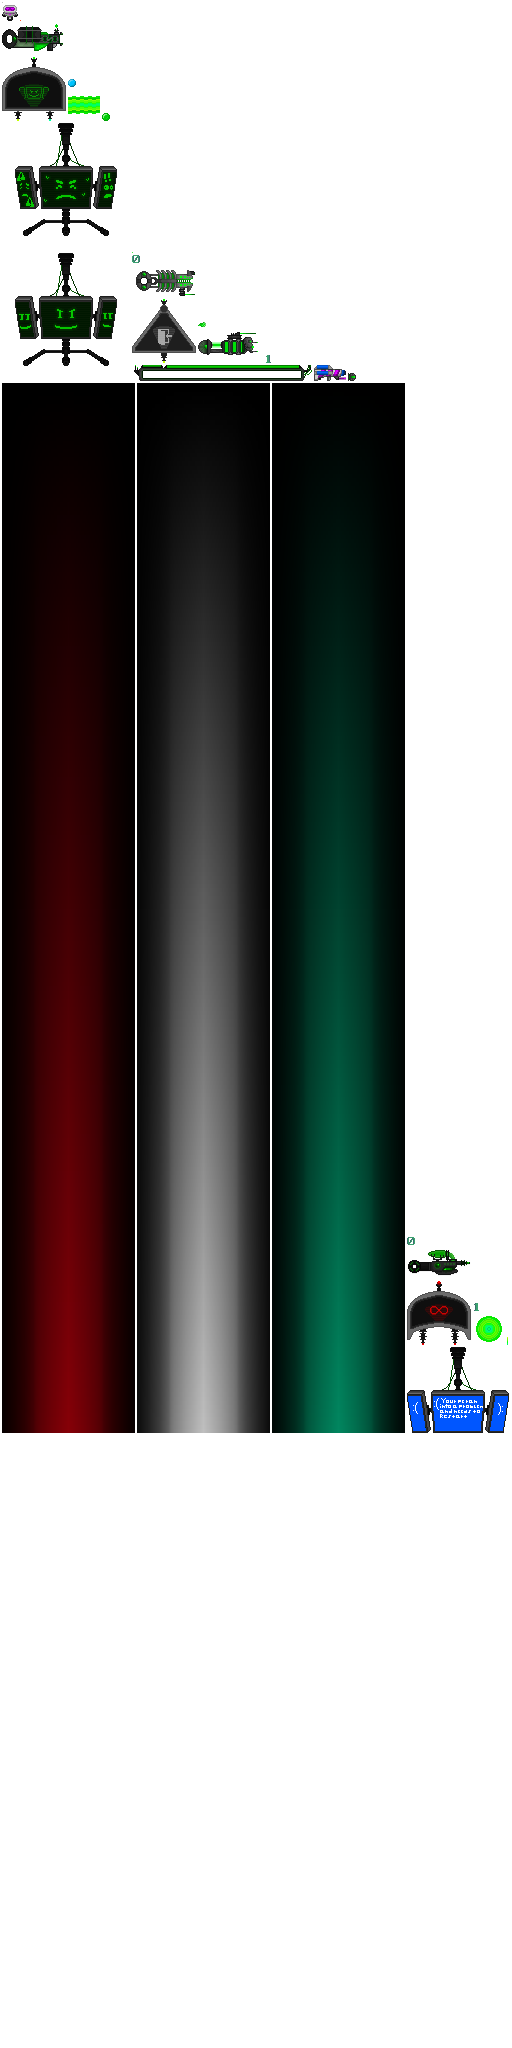
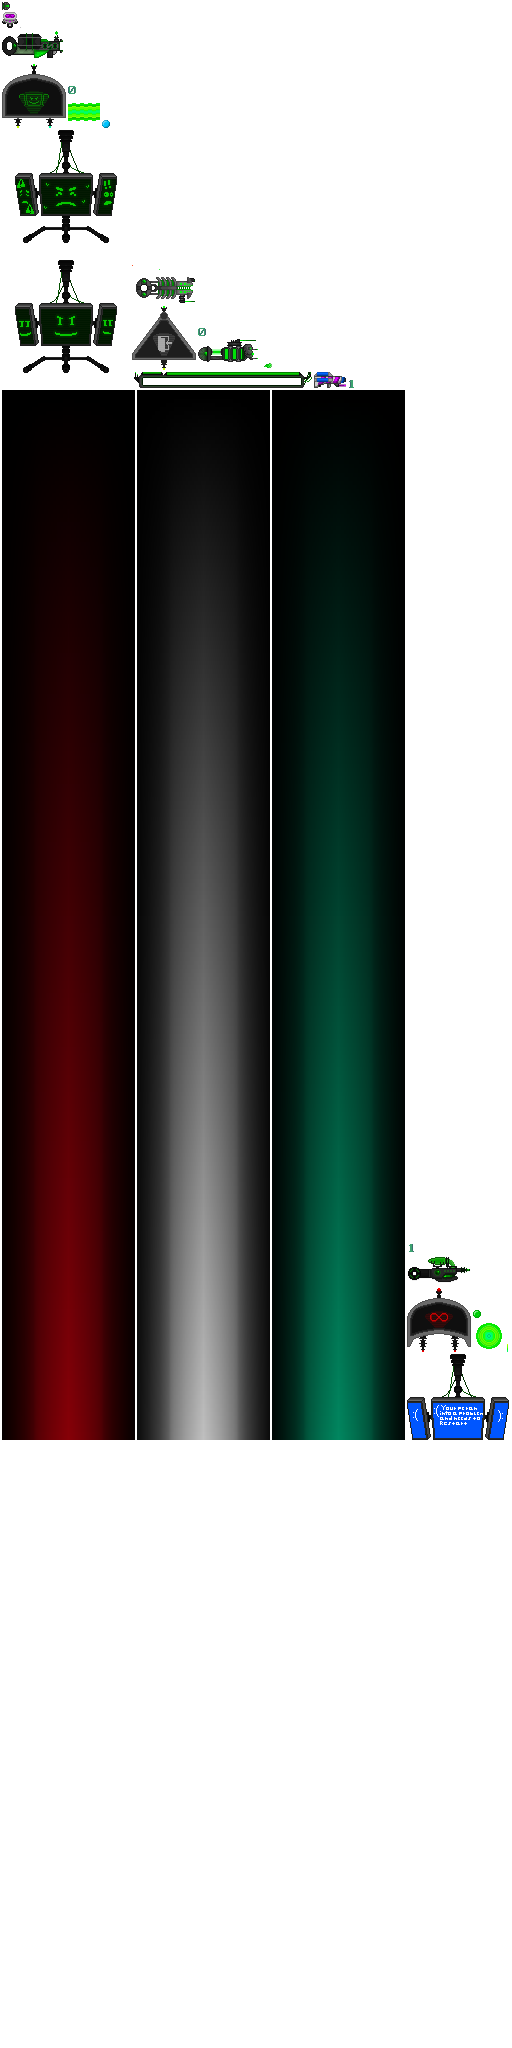
Changed the way we animate the gun, we are now changing sprites' positions properly after the physics step

diff --git a/core/src/com/segfault/games/obj/comp/AngleRecoilComponent.java b/core/src/com/segfault/games/obj/comp/AngleRecoilComponent.java
@@ -12,10 +12,6 @@ import com.segfault.games.JavaKnight;
  */
 public class AngleRecoilComponent extends Component{
     /**
-     * the value the recoil should reach before starting to go back down
-     */
-    public float maxAngle = 0.0f;
-    /**
      * current speed value to increase the angle, note this value is multiplied by deltaTime
      */
     public float angleSpeed = 0.0f;
@@ -27,11 +23,7 @@ public class AngleRecoilComponent extends Component{
     /**
      * the acceleration at which to increase the speed
      */
-    public float angleAcceleration = 0.0f;
-    /**
-     * value to devide the acceleration when going back to its original angle
-     */
-    public float divisor = 0.0f;
+    public float angleDecceleration = 0.0f;
 
     /**
      * the currently added angle
@@ -44,27 +36,19 @@ public class AngleRecoilComponent extends Component{
     public boolean trigger = false;
 
     /**
-     * current time the object stays up before going back down
+     * Max angle the object can reach
      */
-    public float retainTime = 0f;
-
-    /**
-     * initial retain time
-     */
-    public float initialRetainTime = 0f;
+    public float maxAngle = 0f;
 
 
     @Override
     public void reset() {
-        maxAngle = 0.0f;
-        divisor = 0.0f;
         angleSpeed = 0.0f;
         angle = 0.0f;
         trigger = false;
-        retainTime = 0f;
-        initialRetainTime = 0f;
-        angleAcceleration = 0f;
+        angleDecceleration = 0f;
         intialAngleSpeed = 0f;
+        maxAngle = 0f;
     }
 
     @Override
@@ -76,14 +60,11 @@ public class AngleRecoilComponent extends Component{
     public Component clone(JavaKnight instance, Entity ent, Vector4 pol, JsonValue properties) {
         AngleRecoilComponent comp = instance.GetEntityManager().GetEngine().createComponent(this.getClass());
         comp.angle = angle;
-        comp.maxAngle = maxAngle;
         comp.angleSpeed = angleSpeed;
-        comp.divisor = divisor;
         comp.trigger = trigger;
-        comp.retainTime = retainTime;
-        comp.initialRetainTime = initialRetainTime;
-        comp.angleAcceleration = angleAcceleration;
+        comp.angleDecceleration = angleDecceleration;
         comp.intialAngleSpeed = intialAngleSpeed;
+        comp.maxAngle = maxAngle;
         return comp;
     }
 
@@ -94,10 +75,8 @@ public class AngleRecoilComponent extends Component{
 
     @Override
     public void read(JsonValue jsonValue, JavaKnight instance) {
-        maxAngle = jsonValue.getFloat("maxAngle");
         intialAngleSpeed = angleSpeed = jsonValue.getFloat("angleSpeed");
-        divisor = jsonValue.getFloat("divisor");
-        initialRetainTime = jsonValue.getFloat("initialRetainTime");
-        angleAcceleration = jsonValue.getFloat("angleAcceleration");
+        angleDecceleration = jsonValue.getFloat("angleDecceleration");
+        maxAngle = jsonValue.getFloat("maxAngle");
     }
 }

diff --git a/core/src/com/segfault/games/obj/comp/PositionRecoilComponent.java b/core/src/com/segfault/games/obj/comp/PositionRecoilComponent.java
@@ -23,15 +23,6 @@ public class PositionRecoilComponent extends Component{
     public float angle = 0f;
 
     /**
-     * cyrrent seconds to wait before the recoil goes back to its original
-     */
-    public float retainTime = 0f;
-    /**
-     * initial value of retain time
-     */
-    public float initialRetainTime = 0f;
-
-    /**
      * speed at which the distance should move, is multiplied by deltatime
      */
     public float distanceSpeed = 0f;
@@ -39,17 +30,12 @@ public class PositionRecoilComponent extends Component{
     /**
      * acceleration at which to increase the distance speed
      */
-    public float distanceAcceleration = 0f;
+    public float distanceDecceleration = 0f;
 
     /**
      * initial distance speed
      */
     public float initialDistanceSpeed = 0f;
-
-    /**
-     * divisor determining the deceleration
-     */
-    public float divisor = 0f;
 
     /**
      * whether the recoil is currently triggered
@@ -63,24 +49,19 @@ public class PositionRecoilComponent extends Component{
     public Component clone(JavaKnight instance, Entity ent, Vector4 pol, JsonValue properties) {
         PositionRecoilComponent comp = instance.GetEntityManager().GetEngine().createComponent(this.getClass());
         comp.maxDis = maxDis;
-        comp.divisor = divisor;
         comp.angle = angle;
-        comp.retainTime = retainTime;
         comp.distanceSpeed = distanceSpeed;
-        comp.distanceAcceleration = distanceAcceleration;
         comp.initialDistanceSpeed = initialDistanceSpeed;
         comp.trigger = trigger;
-        comp.initialRetainTime = initialRetainTime;
+        comp.distanceDecceleration = distanceDecceleration;
         return comp;
     }
 
     @Override
     public void read(JsonValue jsonValue, JavaKnight instance) {
         maxDis = jsonValue.getFloat("maxDis");
-        divisor = jsonValue.getFloat("divisor");
-        initialRetainTime = jsonValue.getFloat("initialRetainTime");
         initialDistanceSpeed = distanceSpeed = jsonValue.getFloat("initialDistanceSpeed");
-        distanceAcceleration = jsonValue.getFloat("distanceAcceleration");
+        distanceDecceleration = jsonValue.getFloat("distanceDecceleration");
     }
 
     @Override
@@ -93,12 +74,9 @@ public class PositionRecoilComponent extends Component{
         maxDis = 0f;
         dis = 0f;
         angle = 0f;
-        retainTime = 0f;
         distanceSpeed = 0f;
-        distanceAcceleration = 0f;
         initialDistanceSpeed = 0f;
-        divisor = 0f;
-        initialRetainTime = 0f;
+        distanceDecceleration = 0f;
         trigger = false;
     }
 }

diff --git a/core/src/com/segfault/games/obj/ent/EntityManager.java b/core/src/com/segfault/games/obj/ent/EntityManager.java
@@ -80,15 +80,16 @@ public class EntityManager {
 
         systems.put(indexEntitySystems.LIFETIME_SYSTEM, new LifetimeSystem(instance, 10));
         systems.put(indexEntitySystems.PHYSICS_SYSTEM, new PhysicsSystem(instance, 0.01666666666f, 20));
-        systems.put(indexEntitySystems.POINTING_SYSTEM, new PointingSystem(instance, 30));
-        systems.put(indexEntitySystems.ALPHA_DECREASE_SYSTEM, new AlphaDecreaseSystem(instance, 40));
-        systems.put(indexEntitySystems.TRAILING_SYSTEM, new TrailingSystem(instance, 50));
-        systems.put(indexEntitySystems.PLAYER_GUN_SYSTEM, new PlayerGunSystem(instance, 60));
-        systems.put(indexEntitySystems.ANGLE_RECOIL_SYSTEM, new AngleRecoilSystem(instance, 70));
-        systems.put(indexEntitySystems.POSITION_RECOIL_SYSTEM, new PositionRecoilSystem(instance, 80));
-        systems.put(indexEntitySystems.SCREEN_RECOIL_SYSTEM, new ScreenRecoilSystem(instance, 90));
-        systems.put(indexEntitySystems.BULLET_SPAWN_SYSTEM, new BulletSpawnSystem(instance, 100));
-        systems.put(indexEntitySystems.RENDERING_SYSTEM, new RenderingSystem(instance, batch, 110));
+        systems.put(indexEntitySystems.SPRITE_POSITIONING_SYSTEM, new SpritePositioningSystem(instance, 30));
+        systems.put(indexEntitySystems.POINTING_SYSTEM, new PointingSystem(instance, 40));
+        systems.put(indexEntitySystems.ALPHA_DECREASE_SYSTEM, new AlphaDecreaseSystem(instance, 50));
+        systems.put(indexEntitySystems.TRAILING_SYSTEM, new TrailingSystem(instance, 60));
+        systems.put(indexEntitySystems.PLAYER_GUN_SYSTEM, new PlayerGunSystem(instance, 70));
+        systems.put(indexEntitySystems.ANGLE_RECOIL_SYSTEM, new AngleRecoilSystem(instance, 80));
+        systems.put(indexEntitySystems.POSITION_RECOIL_SYSTEM, new PositionRecoilSystem(instance, 90));
+        systems.put(indexEntitySystems.SCREEN_RECOIL_SYSTEM, new ScreenRecoilSystem(instance, 100));
+        systems.put(indexEntitySystems.BULLET_SPAWN_SYSTEM, new BulletSpawnSystem(instance, 110));
+        systems.put(indexEntitySystems.RENDERING_SYSTEM, new RenderingSystem(instance, batch, 120));
 
         for (Object system : systems.values())
             pooledECS.addSystem( (EntitySystem) system);

diff --git a/core/src/com/segfault/games/obj/sys/PositionRecoilSystem.java b/core/src/com/segfault/games/obj/sys/PositionRecoilSystem.java
@@ -23,33 +23,22 @@ public class PositionRecoilSystem extends IteratingSystem {
         DrawableComponent drawable = mappers.Drawable.get(entity);
         PositionRecoilComponent posRecoil = mappers.PositionRecoil.get(entity);
 
-
-        if (posRecoil.retainTime > 0) {
-            posRecoil.retainTime -= deltaTime;
-            posRecoil.dis += posRecoil.distanceAcceleration / posRecoil.divisor * deltaTime;
-            drawable.sprite.translate(posRecoil.dis * MathUtils.cosDeg(posRecoil.angle), posRecoil.dis * MathUtils.sinDeg(posRecoil.angle));
-
-        }
-        else if(posRecoil.trigger) {
-            posRecoil.distanceSpeed += posRecoil.distanceAcceleration;
+        if(posRecoil.trigger) {
             posRecoil.dis += posRecoil.distanceSpeed * deltaTime;
-            drawable.sprite.translate(posRecoil.dis * MathUtils.cosDeg(posRecoil.angle), posRecoil.dis * MathUtils.sinDeg(posRecoil.angle));
+            posRecoil.trigger = false;
 
-            if (posRecoil.dis > posRecoil.maxDis) {
-                posRecoil.trigger = false;
-                posRecoil.retainTime = posRecoil.initialRetainTime;
-                posRecoil.distanceSpeed = posRecoil.initialDistanceSpeed;
-            }
-        }
-          else if (posRecoil.dis > 0) {
-            posRecoil.distanceSpeed += posRecoil.distanceAcceleration;
-            posRecoil.dis -= posRecoil.distanceSpeed / posRecoil.divisor * deltaTime;
+        } else if (posRecoil.dis > 0) {
+            posRecoil.distanceSpeed -= posRecoil.distanceDecceleration;
+            posRecoil.dis += posRecoil.distanceSpeed * deltaTime;
             drawable.sprite.translate(posRecoil.dis * MathUtils.cosDeg(posRecoil.angle), posRecoil.dis * MathUtils.sinDeg(posRecoil.angle));
 
             if (posRecoil.dis <= 0) {
                 posRecoil.distanceSpeed = posRecoil.initialDistanceSpeed;
                 posRecoil.dis = 0;
             }
+            else if (posRecoil.dis > posRecoil.maxDis)
+                posRecoil.dis = posRecoil.maxDis;
+
         }
 
     }

diff --git a/core/src/com/segfault/games/obj/sys/phy/MovementSystem.java b/core/src/com/segfault/games/obj/sys/phy/MovementSystem.java
@@ -27,28 +27,12 @@ public class MovementSystem implements SubSystem {
     public void processEntity(Entity entity, float interval, float accumulator) {
         if (entity.isScheduledForRemoval()) return;
 
-
         MovingComponent movement = manager.GetMappers().Moving.get(entity);
         DrawableComponent drawable = manager.GetMappers().Drawable.get(entity);
 
         CollidesComponent collisionInfo = manager.GetMappers().Collides.get(entity);
         boolean hasBox2DCol = collisionInfo != null;
 
-        Vector2 pos;
-        if (hasBox2DCol) {
-
-            pos = collisionInfo.physicBody.getPosition();
-
-            float interpolation = accumulator / interval;
-
-            vec.set(collisionInfo.x, collisionInfo.y);
-            vec.lerp(pos, interpolation);
-
-
-            collisionInfo.x = pos.x;
-            collisionInfo.y = pos.y;
-            drawable.sprite.setPosition(vec.x * Renderer.PIXEL_TO_METERS - collisionInfo.width * Renderer.PIXEL_TO_METERS / 2, vec.y * Renderer.PIXEL_TO_METERS - collisionInfo.height * Renderer.PIXEL_TO_METERS / 2);
-        }
         if (Float.compare(movement.dx, 0f) == 0 && Float.compare(movement.dy, 0f) == 0) return;
 
         float x = drawable.sprite.getX();
@@ -74,8 +58,8 @@ public class MovementSystem implements SubSystem {
 
             velToApply.set(dx, dy);
 
-            if (Math.abs(vel.x) > Math.abs(dx / interval) && Math.signum(vel.x) == Math.signum(dx / interval) ) velToApply.x = 0;
-            if (Math.abs(vel.y) > Math.abs(dy / interval) && Math.signum(vel.y) == Math.signum(dy / interval)) velToApply.y = 0;
+            if (Math.abs(vel.x) > Math.abs(movement.dx) && Math.signum(vel.x) == Math.signum(movement.dx)) velToApply.x = 0;
+            if (Math.abs(vel.y) > Math.abs(movement.dy) && Math.signum(vel.y) == Math.signum(movement.dy)) velToApply.y = 0;
             if (velToApply.len2() > 0)
                 collisionInfo.physicBody.applyLinearImpulse(velToApply, vec, true);
 

diff --git a/core/src/com/segfault/games/obj/sys/AngleRecoilSystem.java b/core/src/com/segfault/games/obj/sys/AngleRecoilSystem.java
@@ -31,31 +31,25 @@ public class AngleRecoilSystem extends IteratingSystem {
         PointingComponent pointing = mappers.Pointing.get(entity);
 
 
-        if (recoil.retainTime > 0) {
-            recoil.retainTime -= deltaTime;
-            recoil.angle += recoil.angleAcceleration / recoil.divisor * deltaTime;
-            drawable.sprite.rotate((pointing.flip ? -1 : 1) * recoil.angle);
-        }
-        else if(recoil.trigger) {
-            recoil.angleSpeed += recoil.angleAcceleration;
-            recoil.angle += recoil.angleSpeed * deltaTime;
-            drawable.sprite.rotate((pointing.flip ? -1 : 1) * recoil.angle);
 
-            if (Math.abs(recoil.angle) > recoil.maxAngle) {
-                recoil.trigger = false;
-                recoil.retainTime = recoil.initialRetainTime;
-                recoil.angleSpeed = recoil.intialAngleSpeed;
-            }
+        if (recoil.trigger) {
+            recoil.angle += recoil.angleSpeed * deltaTime;
+            recoil.trigger = false;
         }
         else if (recoil.angle > 0) {
-            recoil.angleSpeed += recoil.angleAcceleration;
-            recoil.angle -= recoil.angleSpeed / recoil.divisor * deltaTime;
-            drawable.sprite.rotate((pointing.flip ? -1 : 1) * recoil.angle);
 
+            recoil.angleSpeed -= recoil.angleDecceleration;
+            recoil.angle += recoil.angleSpeed * deltaTime;
             if (recoil.angle <= 0) {
                 recoil.angleSpeed = recoil.intialAngleSpeed;
                 recoil.angle = 0;
             }
+            else if (recoil.angle > recoil.maxAngle) {
+                recoil.angle = recoil.maxAngle;
+            }
+
+            drawable.sprite.rotate((pointing.flip ? -1 : 1) * recoil.angle);
+
         }
         else return;
 

diff --git a/core/src/com/segfault/games/obj/sys/phy/SpritePositioningSystem.java b/core/src/com/segfault/games/obj/sys/phy/SpritePositioningSystem.java
@@ -1,0 +1,37 @@
+package com.segfault.games.obj.sys.phy;
+
+import com.badlogic.ashley.core.Entity;
+import com.badlogic.ashley.core.Family;
+import com.badlogic.ashley.systems.IteratingSystem;
+import com.badlogic.gdx.math.Vector2;
+import com.segfault.games.JavaKnight;
+import com.segfault.games.gra.Renderer;
+import com.segfault.games.obj.comp.CollidesComponent;
+import com.segfault.games.obj.comp.DrawableComponent;
+import com.segfault.games.obj.comp.PhysicComponent;
+import com.segfault.games.obj.ent.EntityManager;
+
+/**
+ * Moves an entity's sprite to a collision's updated position after our physics step
+ */
+
+public class SpritePositioningSystem extends IteratingSystem {
+
+    private final EntityManager manager;
+    public SpritePositioningSystem(JavaKnight instance, int priority) {
+        super(Family.all(PhysicComponent.class, DrawableComponent.class, CollidesComponent.class).get(), priority);
+
+        manager = instance.GetEntityManager();
+    }
+
+    @Override
+    protected void processEntity(Entity entity, float deltaTime) {
+
+        CollidesComponent collidesComponent = manager.GetMappers().Collides.get(entity);
+        DrawableComponent drawableComponent = manager.GetMappers().Drawable.get(entity);
+
+        Vector2 pos = collidesComponent.physicBody.getPosition();
+
+        drawableComponent.sprite.setPosition(pos.x * Renderer.PIXEL_TO_METERS - collidesComponent.width * Renderer.PIXEL_TO_METERS / 2, pos.y * Renderer.PIXEL_TO_METERS - collidesComponent.height * Renderer.PIXEL_TO_METERS / 2);
+    }
+}

diff --git a/core/src/com/segfault/games/gra/Renderer.java b/core/src/com/segfault/games/gra/Renderer.java
@@ -123,7 +123,6 @@ public class Renderer {
      */
     public void Render(JavaKnight instance, World physicWorld) {
 
-
         if (!instance.GetTexts().isEmpty() || !instance.GetStaticFonts().isEmpty()) {
             // Draw text objects
             batch.setShader(fontShader);

diff --git a/core/src/com/segfault/games/obj/ent/indexEntitySystems.java b/core/src/com/segfault/games/obj/ent/indexEntitySystems.java
@@ -3,6 +3,7 @@ package com.segfault.games.obj.ent;
 public enum indexEntitySystems {
     LIFETIME_SYSTEM,
     PHYSICS_SYSTEM,
+    SPRITE_POSITIONING_SYSTEM,
     POINTING_SYSTEM,
     ALPHA_DECREASE_SYSTEM,
     TRAILING_SYSTEM,
